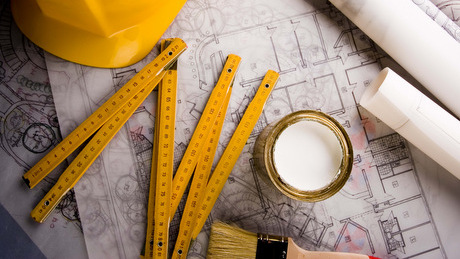
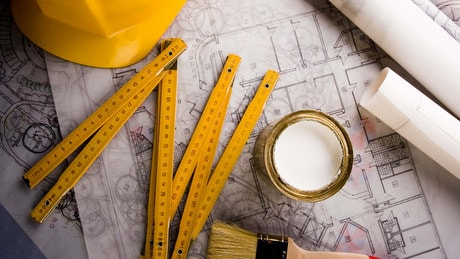
optimize images

diff --git a/portfolio.html b/portfolio.html
@@ -3,17 +3,17 @@
 <head>
   <meta charset="utf-8">
   <title>Выполненые работы, наше портфолио</title>
-  <link rel="shortcut icon" href="/img/favicon.ico" type="image/x-icon">
   <meta name="description" content="Примеры и описание выполненных работ">
-  <meta name="viewport" content="width=device-width">
+  <link rel="icon" href="/icons/favicon.ico" type="image/x-icon">
+  <meta name="viewport" content="width=device-width, initial-scale=1.0">
   <link rel="dns-prefetch" href="https://www.google-analytics.com">
   <link rel="dns-prefetch" href="https://stats.g.doubleclick.net">
-  <style>html,body{background-color: #9a5321}</style>
   <link href="/css/style.css" rel="preload" as="style">
-  <link href="/css/style.css" rel="stylesheet" >
   <link href="//fonts.googleapis.com/css?family=Arvo:400&display=swap" rel="preload" as="style">
-  <link href="//fonts.googleapis.com/css?family=Arvo:400&display=swap" rel="stylesheet">
   <link href="//fonts.googleapis.com/css?family=Lato:400,700&display=swap" rel="preload" as="style">
+  <style>html,body{background-color: #9a5321}</style>
+  <link href="/css/style.css" rel="stylesheet" >
+  <link href="//fonts.googleapis.com/css?family=Arvo:400&display=swap" rel="stylesheet">
   <link href="//fonts.googleapis.com/css?family=Lato:400,700&display=swap" rel="stylesheet">
 </head>
 <body>
@@ -40,67 +40,67 @@
   <main id="main">
     <div class="entry-content cf">
       <figure>
-        <img src="/img/slider/01.jpg" alt=""/>
+        <img src="/img/slider/01.jpg" loading="lazy" alt=""/>
         <figcaption>Устройство кухни в типовой малогабаритной квартире</figcaption>
       </figure>
       <figure>
-        <img src="/img/slider/02.jpg" alt=""/>
+        <img src="/img/slider/02.jpg" loading="lazy" alt=""/>
         <figcaption>Устройство ниши и монтаж раковины-умывальника в санузле</figcaption>
       </figure>
       <figure>
-        <img src="/img/slider/03.jpg" alt=""/>
+        <img src="/img/slider/03.jpg" loading="lazy" alt=""/>
         <figcaption>Оклейка фотообоев и монтаж обнижения потолка</figcaption>
       </figure>
       <figure>
-        <img src="/img/slider/04.jpg" alt=""/>
+        <img src="/img/slider/04.jpg" loading="lazy" alt=""/>
         <figcaption>Устройство нищ из гипсокартона со встроенными шкафами в санузле</figcaption>
       </figure>
       <figure>
-        <img src="/img/slider/05.jpg" alt=""/>
+        <img src="/img/slider/05.jpg" loading="lazy" alt=""/>
         <figcaption>Устройство барной стойки в гостиной</figcaption>
       </figure>
       <figure>
-        <img src="/img/slider/07.jpg" alt=""/>
+        <img src="/img/slider/07.jpg" loading="lazy" alt=""/>
         <figcaption>Отделка откосов балконной двери</figcaption>
       </figure>
       <figure>
-        <img src="/img/slider/08.jpg" alt=""/>
+        <img src="/img/slider/08.jpg" loading="lazy" alt=""/>
         <figcaption>Отделка ванной комнаты</figcaption>
       </figure>
       <figure>
-        <img src="/img/slider/09.jpg" alt=""/>
+        <img src="/img/slider/09.jpg" loading="lazy" alt=""/>
         <figcaption>Комбинированный потолок из гипсокартона и натяжной</figcaption>
       </figure>
       <figure>
-        <img src="/img/slider/10.jpg" alt=""/>
+        <img src="/img/slider/10.jpg" loading="lazy" alt=""/>
         <figcaption>Устройство подиума под душ из мозаики и плитки</figcaption>
       </figure>
       <figure>
-        <img src="/img/slider/11.jpg" alt=""/>
+        <img src="/img/slider/11.jpg" loading="lazy" alt=""/>
         <figcaption>Отделка деревом лоджии</figcaption>
       </figure>
       <figure>
-        <img src="/img/slider/12.jpg" alt=""/>
+        <img src="/img/slider/12.jpg" loading="lazy" alt=""/>
         <figcaption>Устройство полов лоджии</figcaption>
       </figure>
       <figure>
-        <img src="/img/slider/13.jpg" alt=""/>
+        <img src="/img/slider/13.jpg" loading="lazy" alt=""/>
         <figcaption>Установка дополнительного гигиенического душа в санузле</figcaption>
       </figure>
       <figure>
-        <img src="/img/slider/14.jpg" alt=""/>
+        <img src="/img/slider/14.jpg" loading="lazy" alt=""/>
         <figcaption>Устройства ниши из гипсокартона под стиральную машину с отделкой из мозаики</figcaption>
       </figure>
       <figure>
-        <img src="/img/slider/15.jpg" alt=""/>
+        <img src="/img/slider/15.jpg" loading="lazy" alt=""/>
         <figcaption>Комбинированный потолок</figcaption>
       </figure>
       <figure>
-        <img src="/img/slider/16.jpg" alt=""/>
+        <img src="/img/slider/16.jpg" loading="lazy" alt=""/>
         <figcaption>Отделка санузла кафелем и установка сантехнического оборудования</figcaption>
       </figure>
       <figure>
-        <img src="/img/slider/17.jpg" alt=""/>
+        <img src="/img/slider/17.jpg" loading="lazy" alt=""/>
         <figcaption>Установка дверей</figcaption>
       </figure>
     </div>

diff --git a/index.html b/index.html
@@ -3,19 +3,19 @@
 <head>
   <meta charset="utf-8">
   <link rel="icon" href="/icons/favicon.ico" type="image/x-icon">
-  <meta name="viewport" content="width=device-width">
+  <meta name="viewport" content="width=device-width, initial-scale=1.0">
   <meta name="theme-color" content="#000000" />
   <meta name="description" content="Ремонт и отделка квартир, офисных помещений под ключ. Широкий спект выполняемых работ.">
   <link rel="apple-touch-icon" href="/icons/logo192.png" />
   <link rel="manifest" href="/manifest.json" />
   <link rel="dns-prefetch" href="https://www.google-analytics.com">
   <link rel="dns-prefetch" href="https://stats.g.doubleclick.net">
-  <style>html,body{background-color: #9a5321}</style>
   <link href="/css/style.css" rel="preload" as="style">
-  <link href="/css/style.css" rel="stylesheet" >
   <link href="//fonts.googleapis.com/css?family=Arvo:400&display=swap" rel="preload" as="style">
-  <link href="//fonts.googleapis.com/css?family=Arvo:400&display=swap" rel="stylesheet">
   <link href="//fonts.googleapis.com/css?family=Lato:400,700&display=swap" rel="preload" as="style">
+  <style>html,body{background-color: #9a5321}</style>
+  <link href="/css/style.css" rel="stylesheet" >
+  <link href="//fonts.googleapis.com/css?family=Arvo:400&display=swap" rel="stylesheet">
   <link href="//fonts.googleapis.com/css?family=Lato:400,700&display=swap" rel="stylesheet">
   <title>Ремонт и отделка квартир в Бердске, Академгородке</title>
 </head>

diff --git a/work.html b/work.html
@@ -3,17 +3,17 @@
 <head>
   <meta charset="utf-8">
   <title>Перечень выполняемых работ</title>
-  <link rel="shortcut icon" href="/img/favicon.ico" type="image/x-icon">
+  <link rel="icon" href="/icons/favicon.ico" type="image/x-icon">
   <meta name="description" content="Широкий список выполняемых работ различного спектра">
-  <meta name="viewport" content="width=device-width">
+  <meta name="viewport" content="width=device-width, initial-scale=1.0">
   <link rel="dns-prefetch" href="//www.google-analytics.com">
   <link rel="dns-prefetch" href="//stats.g.doubleclick.net">
-  <style>html,body{background-color: #9a5321}</style>
   <link href="/css/style.css" rel="preload" as="style">
-  <link href="/css/style.css" rel="stylesheet" >
   <link href="//fonts.googleapis.com/css?family=Arvo:400&display=swap" rel="preload" as="style">
-  <link href="//fonts.googleapis.com/css?family=Arvo:400&display=swap" rel="stylesheet">
   <link href="//fonts.googleapis.com/css?family=Lato:400,700&display=swap" rel="preload" as="style">
+  <style>html,body{background-color: #9a5321}</style>
+  <link href="/css/style.css" rel="stylesheet" >
+  <link href="//fonts.googleapis.com/css?family=Arvo:400&display=swap" rel="stylesheet">
   <link href="//fonts.googleapis.com/css?family=Lato:400,700&display=swap" rel="stylesheet">
 </head>
 <body>
